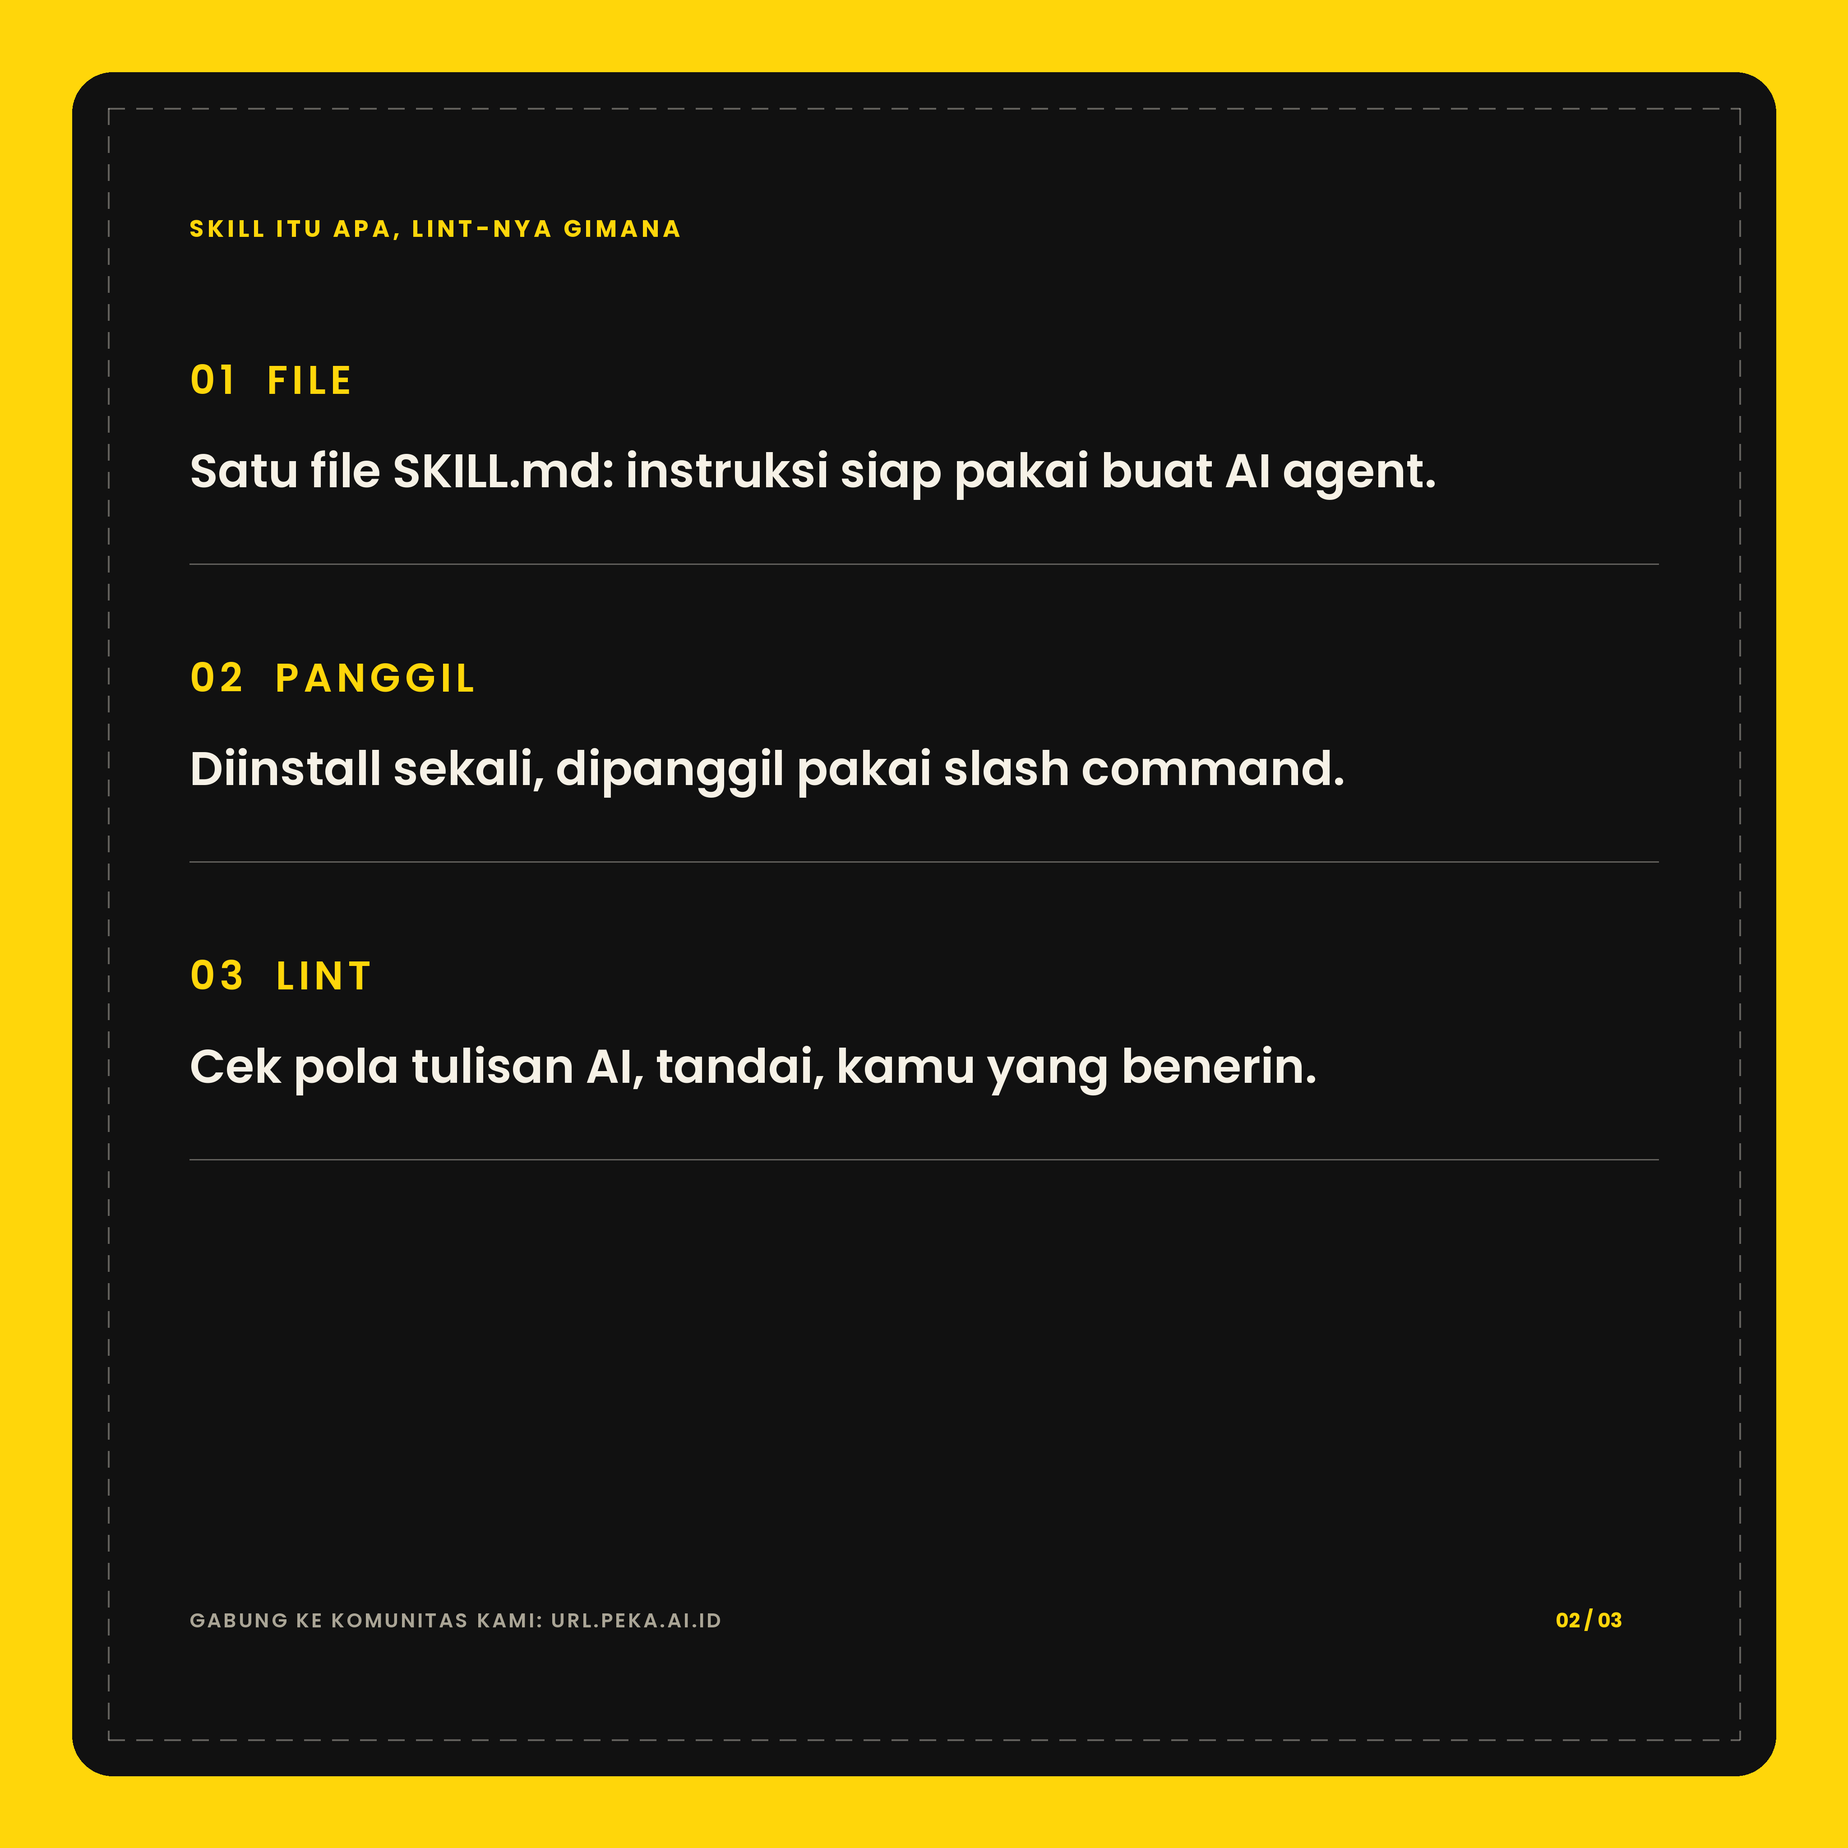
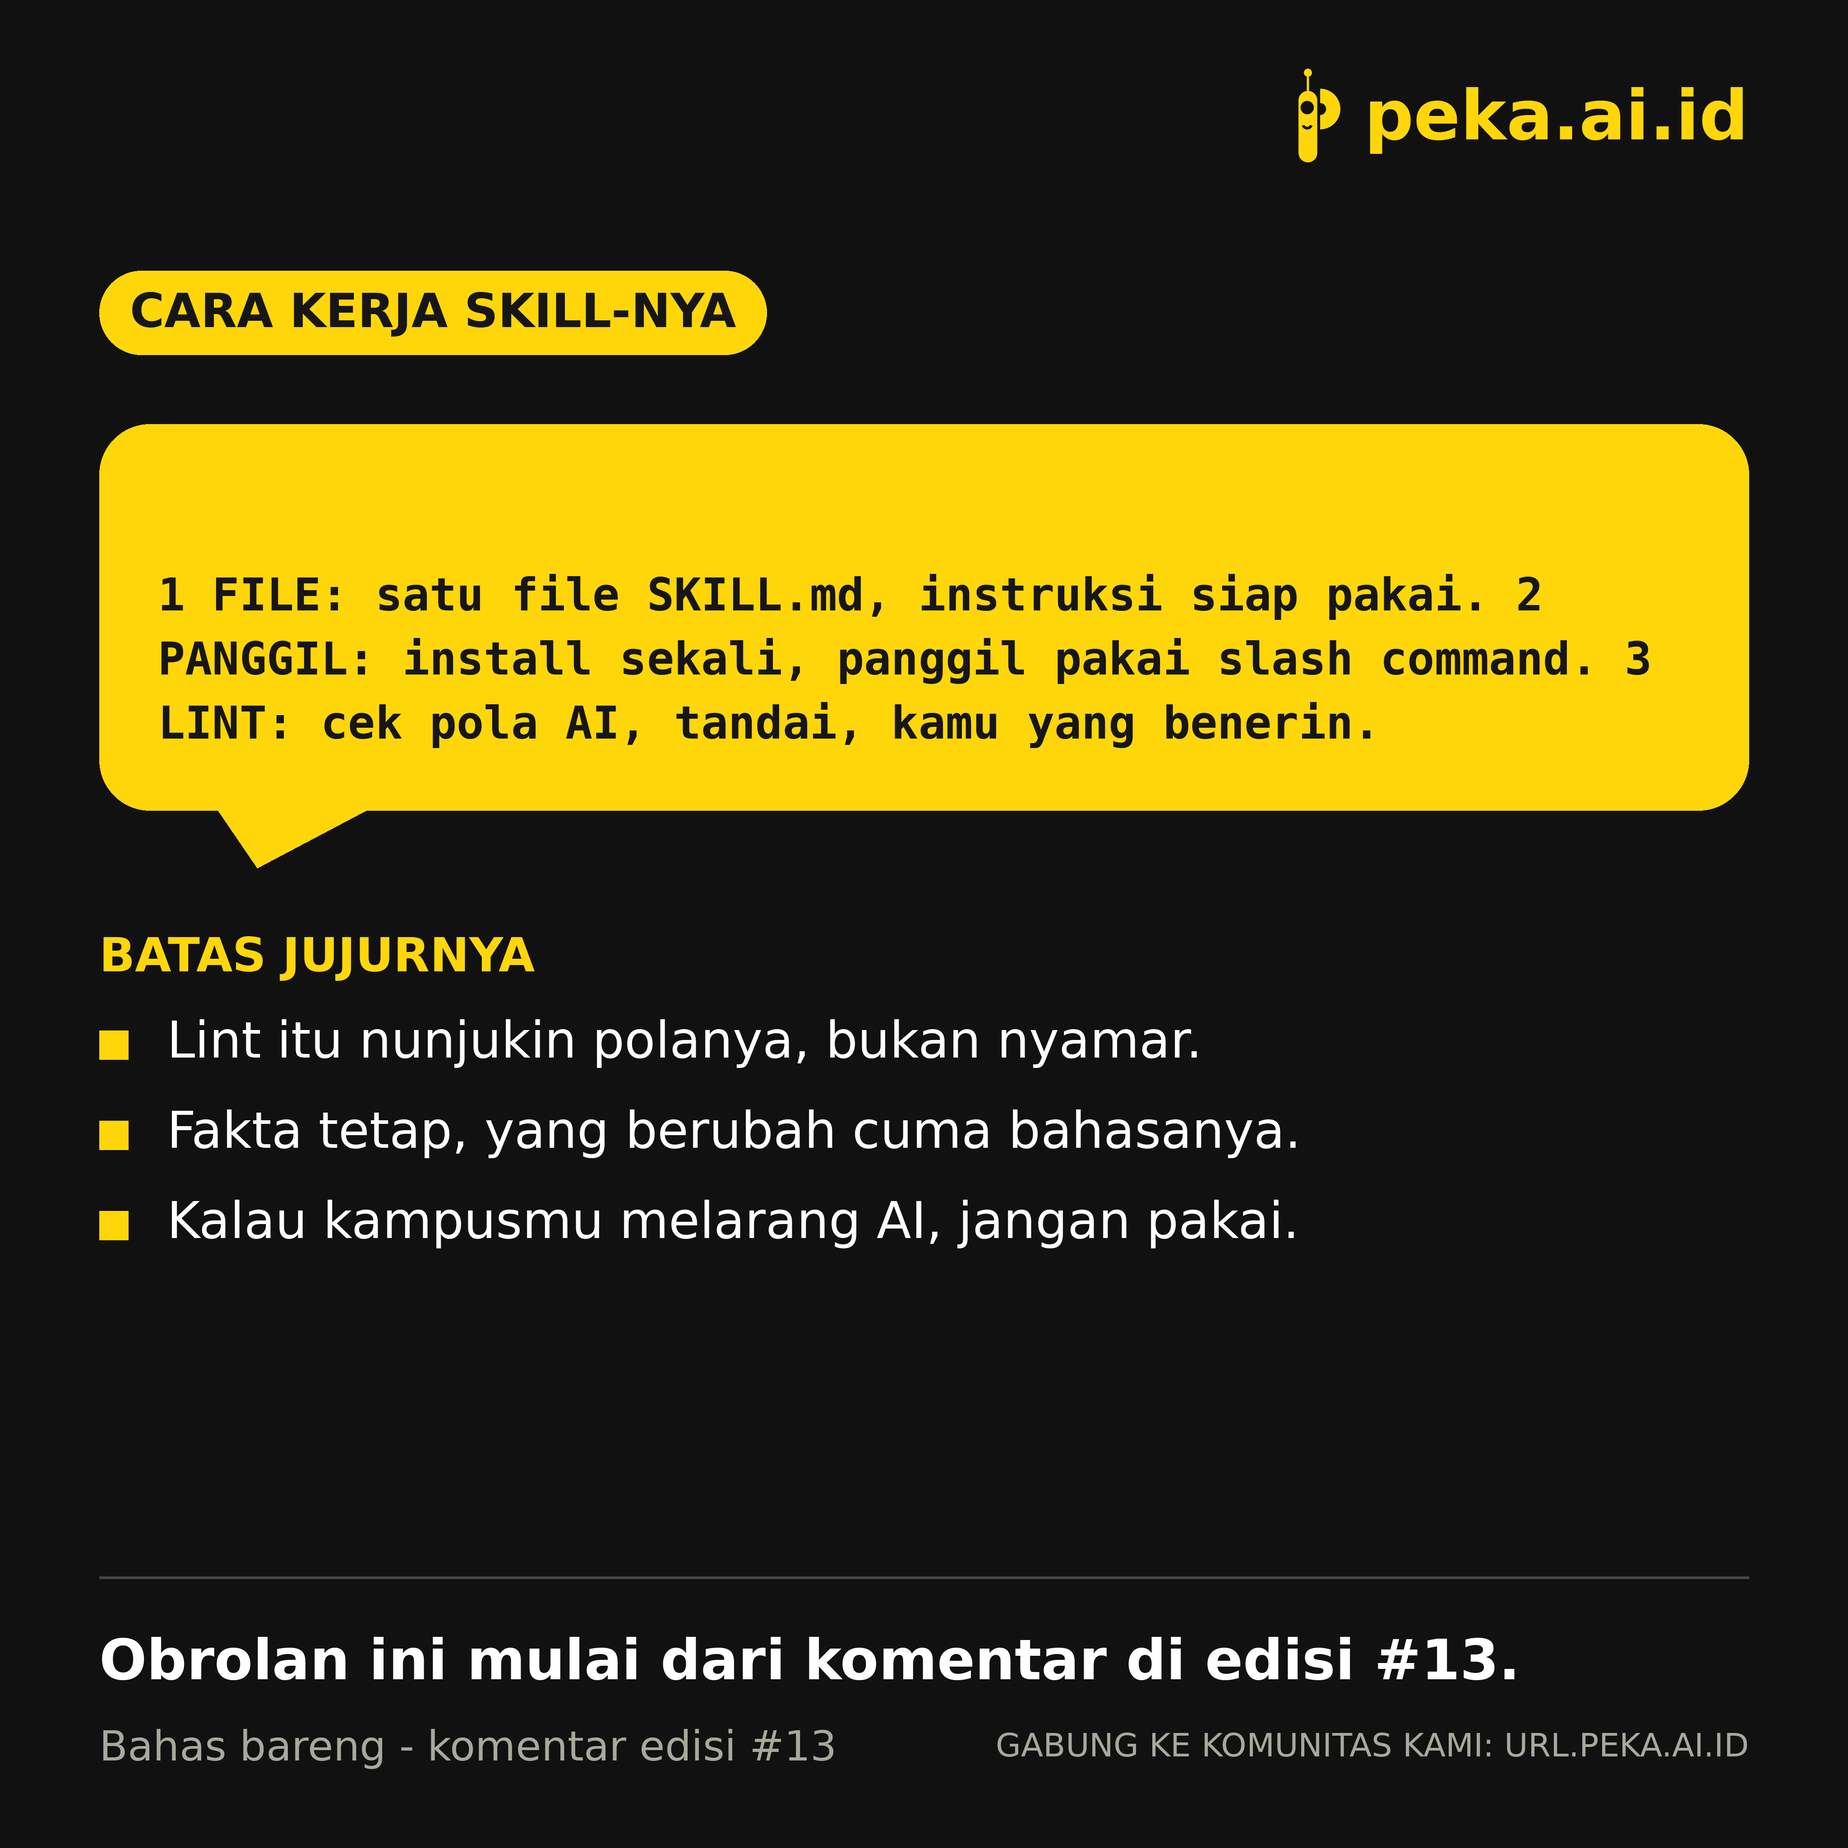
Auto sync 2026-11-04 06:37

diff --git a/bahas/2026-11-04/bahas_slides.py b/bahas/2026-11-04/bahas_slides.py
@@ -1,12 +1,17 @@
+#!/usr/bin/env python3
 """Bahas-bersama carousel: humanizer-lint SKILL discussion from the Prompt #13
-comment thread (@yanstd888 + @meta.ai). Peka black/yellow design language,
-same card/frame/footer helpers as the katalog template. 3 slides 4096x4096.
+comment thread (@yanstd888 + @meta.ai). 2 slides, 4096x4096.
 
-The thread is about a SKILL (an agent skill repo file), not generic writing
-tips: the carousel explains what a skill is, how a lint skill works, and the
-honest-use boundary. No link in any text; the community URL lives only in
-the footer line. Nothing is claimed about the skill being public: the
-comment says it is still being tinkered with.
+Design: the locked Prompt Harian two-tone flip template, reused verbatim
+(helpers copied from prompt/prompt_harian.py): slide 1 = Peka yellow with
+giant black type, locked lockup top-right, chips row, tilted chat-bubble
+teaser, black bottom strip. Slide 2 = black with the mechanics inside a
+yellow chat bubble, honesty-boundary tips, footer trigger. Fonts are
+DejaVu (Bold/regular/mono), mascot is the chroma-keyed mascot-p.png.
+
+Content framing: the thread is about a SKILL (an agent skill repo file),
+not generic writing tips. Nothing is claimed about the skill being public:
+the comment says it is still being tinkered with.
 """
 import os
 
@@ -15,174 +20,216 @@ from PIL import Image, ImageDraw, ImageFont
 HERE = os.path.dirname(os.path.abspath(__file__))
 OUT = HERE
 
-W = H = 4096
+S = 4096
 YELLOW = (255, 214, 10)
 BLACK = (17, 17, 17)
-CREAM = (246, 241, 230)
-MUTED = (170, 165, 150)
-CARD_LINE = (246, 241, 230, 90)
+INK = (22, 22, 22)
+WHITE = (255, 255, 255)
+GRAY = (168, 168, 158)
 
-FONTS = "/home/hatch/workspace/sertiku-poster/fonts"
-FB = f"{FONTS}/Poppins-Bold.ttf"
-FX = f"{FONTS}/Poppins-ExtraBold.ttf"
-FS = f"{FONTS}/Poppins-SemiBold.ttf"
-FM = "/usr/share/fonts/truetype/dejavu/DejaVuSansMono-Bold.ttf"
-
-MASCOT = "/home/hatch/workspace/peka-content/blueprint/animated/assets/mascot-keyed.png"
-M = 420
+FB = "/usr/share/fonts/truetype/dejavu/DejaVuSans-Bold.ttf"
+FR = "/usr/share/fonts/truetype/dejavu/DejaVuSans.ttf"
+FM = "/usr/share/fonts/truetype/dejavu/DejaVuSansMono.ttf"
+FMB = "/usr/share/fonts/truetype/dejavu/DejaVuSansMono-Bold.ttf"
 
 
-def tracked(d, text, font, fill, x, y, ls):
-    cx = x
-    for ch in text:
-        d.text((cx, y), ch, font=font, fill=fill)
-        cx += d.textlength(ch, font=font) + ls
-    return cx
+def f(sz):
+    return ImageFont.truetype(FB, sz)
 
 
-def dashed_rect(d, box, fill, width=4, dash=36, gap=26):
-    x0, y0, x1, y1 = box
-    x = x0
-    while x < x1:
-        d.line([x, y0, min(x + dash, x1), y0], fill=fill, width=width)
-        d.line([x, y1, min(x + dash, x1), y1], fill=fill, width=width)
-        x += dash + gap
-    y = y0
-    while y < y1:
-        d.line([x0, y, x0, min(y + dash, y1)], fill=fill, width=width)
-        d.line([x1, y, x1, min(y + dash, y1)], fill=fill, width=width)
-        y += dash + gap
+def fr(sz):
+    return ImageFont.truetype(FR, sz)
 
 
-def base():
-    img = Image.new("RGB", (W, H), YELLOW)
-    d = ImageDraw.Draw(img, "RGBA")
-    d.rounded_rectangle([160, 160, 3936, 3936], radius=90, fill=BLACK)
-    dashed_rect(d, [240, 240, 3856, 3856], CARD_LINE, width=4)
-    return img, d
+def mono(sz, bold=False):
+    return ImageFont.truetype(FMB if bold else FM, sz)
 
 
-def footer(d, page, total):
-    fy = 3560
-    f_foot = ImageFont.truetype(FS, 44)
-    tracked(d, "GABUNG KE KOMUNITAS KAMI: URL.PEKA.AI.ID", f_foot,
-            MUTED, M, fy, 5)
-    f_pg = ImageFont.truetype(FB, 44)
-    pg = f"{page:02d} / {total:02d}"
-    pw = d.textlength(pg, font=f_pg)
-    d.text((3936 - M + 80 - pw, fy), pg, font=f_pg, fill=YELLOW)
+# --- mascot with chroma-key (same source as spill/spill.py) ---
+_m = Image.open("/home/hatch/workspace/peka-logo/mascot-p.png").convert("RGB")
+_mmask = Image.new("L", _m.size, 0)
+_mp = _m.load()
+_mk = _mmask.load()
+for yy in range(_m.size[1]):
+    for xx in range(_m.size[0]):
+        r, g, b = _mp[xx, yy]
+        if r > 30 or g > 30 or b > 30:
+            _mk[xx, yy] = 255
+_creature = _m.crop(_mmask.getbbox())
+_cmask = _mmask.crop(_mmask.getbbox())
 
 
-def header_row(d, kicker):
-    f_kick = ImageFont.truetype(FB, 52)
-    tracked(d, kicker, f_kick, YELLOW, M, 470, 8)
+def lockup(img, cy, mh, color, chip=None):
+    """Locked Peka lockup: mascot + 'peka.ai.id', right edge at x=3876."""
+    d = ImageDraw.Draw(img)
+    cr = _creature.resize((int(_creature.width * mh / _creature.height), mh), Image.LANCZOS)
+    mr = _cmask.resize(cr.size, Image.LANCZOS)
+    tf = f(int(mh * 0.74))
+    label = "peka.ai.id"
+    ascent, descent = tf.getmetrics()
+    tx = 3876 - d.textlength(label, font=tf)
+    ty = cy - (ascent + descent) // 2
+    mx = int(tx - 52 - cr.width)
+    my = cy - mh // 2
+    if chip is not None:
+        pad = 40
+        d.rounded_rectangle([mx - pad, my - pad, mx + cr.width + pad, my + mh + pad],
+                            radius=68, fill=chip)
+    img.paste(cr, (mx, my), mr)
+    d.text((tx, ty), label, font=tf, fill=color)
 
 
-def wrap_lines(d, text, font, max_w):
-    words = text.split()
-    lines, cur = [], ""
-    for word in words:
-        trial = f"{cur} {word}".strip()
-        if d.textlength(trial, font=font) <= max_w:
-            cur = trial
+def wrap(d, text, font, max_w):
+    words, lines, cur = text.split(), [], ""
+    for w_ in words:
+        t = (cur + " " + w_).strip()
+        if d.textlength(t, font=font) <= max_w:
+            cur = t
         else:
-            lines.append(cur)
-            cur = word
+            if cur:
+                lines.append(cur)
+            cur = w_
     if cur:
         lines.append(cur)
     return lines
 
 
-# ---------------- slide 1: cover ----------------
-img, d = base()
-header_row(d, "BAHAS BARENG // KOMENTAR EDISI #13")
+def pill(d, x, y, text, font, fill=None, txt=None, outline=None, pad_x=68, pad_y=32):
+    tw = d.textlength(text, font=font)
+    ascent, descent = font.getmetrics()
+    th = ascent + descent
+    box = [x, y, x + tw + pad_x * 2, y + th + pad_y * 2]
+    d.rounded_rectangle(box, radius=(box[3] - box[1]) // 2, fill=fill, outline=outline, width=10 if outline else 2)
+    d.text((x + pad_x, y + pad_y - 4), text, font=font, fill=txt)
+    return box[2]
 
-mascot = Image.open(MASCOT)
-mw, mh = mascot.size
-mh2 = 1260
-mascot = mascot.resize((int(mh2 * mw / mh), mh2), Image.LANCZOS)
-img.paste(mascot, (W - M - mascot.width - 60, 600), mascot)
 
-f_h = ImageFont.truetype(FX, 300)
-d.text((M - 8, 760), "SKILL", font=f_h, fill=CREAM)
-d.text((M - 8, 1080), "HUMANIZER", font=f_h, fill=CREAM)
-t2 = "LINT."
-hl_w = d.textlength(t2, font=f_h)
-d.rounded_rectangle([M - 8 - 24, 1440 - 40,
-                     M - 8 + hl_w + 24, 1440 + 372],
-                    radius=36, fill=YELLOW)
-d.text((M - 8, 1440), t2, font=f_h, fill=BLACK)
+def giant_size(d, text, start=600, max_w=3656):
+    size = start
+    while size > 200:
+        if d.textlength(text, font=f(size)) <= max_w:
+            return size
+        size -= 20
+    raise SystemExit(f"OVERFLOW: giant word {text!r} does not fit")
 
-f_sub = ImageFont.truetype(FS, 84)
-d.text((M, 1960), "Skill yang nge-lint tulisan AI", font=f_sub, fill=CREAM)
-d.text((M, 2075), "biar gak kaku.", font=f_sub, fill=CREAM)
-d.text((M, 2260), "Lagi diulik @meta.ai.", font=f_sub, fill=MUTED)
 
-f_geser = ImageFont.truetype(FM, 62)
-tracked(d, "GESER BUAT LIHAT CARA KERJANYA  >>", f_geser, YELLOW, M, 3040, 4)
+def slide1():
+    img = Image.new("RGB", (S, S), YELLOW)
+    d = ImageDraw.Draw(img)
+    lockup(img, cy=256, mh=208, color=INK, chip=BLACK)
 
-footer(d, 1, 3)
-img.save(f"{OUT}/bahas-01.png")
-print("saved slide 1")
+    # chips row
+    x = pill(d, 220, 600, "BAHAS BARENG", f(104), fill=BLACK, txt=YELLOW)
+    pill(d, x + 52, 600, "KOMENTAR #13", f(104), fill=None, txt=INK, outline=INK)
 
-# ---------------- slide 2: what a skill is + how lint works ----------------
-img, d = base()
-header_row(d, "SKILL ITU APA, LINT-NYA GIMANA")
+    # giant type (auto-fit so HUMANIZER fits the template width)
+    g1 = giant_size(d, "HUMANIZER")
+    d.text((208, 940), "HUMANIZER", font=f(g1), fill=INK)
+    d.text((208, 1600), "LINT.", font=f(660), fill=INK)
 
-blocks = [
-    ("01  FILE",
-     "Satu file SKILL.md: instruksi siap pakai buat AI agent."),
-    ("02  PANGGIL",
-     "Diinstall sekali, dipanggil pakai slash command."),
-    ("03  LINT",
-     "Cek pola tulisan AI, tandai, kamu yang benerin."),
-]
-f_sec = ImageFont.truetype(FS, 88)
-f_item = ImageFont.truetype(FS, 104)
-y = 780
-max_w = W - 2 * M
-for sec_name, body in blocks:
-    tracked(d, sec_name, f_sec, YELLOW, M, y, 10)
-    y += 190
-    for line in wrap_lines(d, body, f_item, max_w):
-        d.text((M, y), line, font=f_item, fill=CREAM)
-        y += 150
-    y += 130
-    d.line([M, y, W - M, y], fill=CARD_LINE, width=3)
-    y += 190
+    # use-case headline
+    hl = wrap(d, "Skill yang nge-lint tulisan AI biar gak kaku. Lagi diulik @meta.ai.",
+              f(176), 3660)
+    if len(hl) > 2:
+        raise SystemExit("OVERFLOW: headline wraps to >2 lines at 176px")
+    y = 2420
+    for ln in hl:
+        d.text((220, y), ln, font=f(176), fill=INK)
+        y += 224
 
-footer(d, 2, 3)
-img.save(f"{OUT}/bahas-02.png")
-print("saved slide 2")
+    # tilted chat bubble teaser (drawn on its own layer, rotated -2 deg)
+    bw, bh = 3120, 660
+    layer = Image.new("RGBA", (bw + 160, bh + 160), (0, 0, 0, 0))
+    ld = ImageDraw.Draw(layer)
+    ld.rounded_rectangle([80, 80, 80 + bw, 80 + bh], radius=108, fill=WHITE)
+    ld.polygon([(360, 80 + bh - 4), (660, 80 + bh - 4), (430, 80 + bh + 124)], fill=WHITE)
+    tag = "SKILL ITU APA?"
+    tag_w = ld.textlength(tag, font=f(80)) + 152
+    ld.rounded_rectangle([80, 80, 80 + tag_w, 236], radius=48, fill=BLACK)
+    ld.text((156, 116), tag, font=f(80), fill=YELLOW)
+    teaser = ("Satu file SKILL.md berisi pola tulisan AI. Diinstall sekali, "
+              "dipanggil pakai slash command.")
+    if len(teaser) > 118:
+        teaser = teaser[:118].rsplit(" ", 1)[0] + "..."
+    tl = wrap(ld, teaser, mono(94), bw - 220)
+    ty = 300
+    for ln in tl[:3]:
+        ld.text((190, ty), ln, font=mono(94), fill=INK)
+        ty += 128
+    layer = layer.rotate(2, resample=Image.BICUBIC, expand=True)
+    img.paste(layer, (300, 2870), layer)
 
-# ---------------- slide 3: honest boundary ----------------
-img, d = base()
-header_row(d, "BATAS JUJURNYA")
+    # bottom strip
+    d.rectangle([0, S - 336, S, S], fill=BLACK)
+    d.text((220, S - 244), "GESER BUAT CARA KERJANYA →", font=f(116), fill=YELLOW)
+    tail = "GABUNG KE KOMUNITAS KAMI: URL.PEKA.AI.ID"
+    d.text((3876 - d.textlength(tail, font=fr(68)), S - 220), tail, font=fr(68), fill=YELLOW)
+    return img
 
-f_big = ImageFont.truetype(FX, 210)
-d.text((M - 8, 800), "Lint itu nunjukin,", font=f_big, fill=CREAM)
-d.text((M - 8, 1040), "bukan nyamar.", font=f_big, fill=CREAM)
 
-f_body = ImageFont.truetype(FS, 92)
-body = ("Fakta tetap, yang berubah cuma bahasanya. "
-        "Bukan tombol lolos detektor.")
-y = 1520
-for line in wrap_lines(d, body, f_body, max_w):
-    d.text((M, y), line, font=f_body, fill=CREAM)
-    y += 140
-y += 60
-warn = "Kalau kampusmu melarang AI, jangan pakai."
-for line in wrap_lines(d, warn, f_body, max_w):
-    d.text((M, y), line, font=f_body, fill=MUTED)
-    y += 140
+def slide2():
+    img = Image.new("RGB", (S, S), BLACK)
+    d = ImageDraw.Draw(img)
+    lockup(img, cy=256, mh=208, color=YELLOW)
 
-band_y = 2620
-d.rounded_rectangle([M, band_y, W - M, band_y + 200], radius=36, fill=YELLOW)
-f_cta = ImageFont.truetype(FB, 72)
-cta = "FOLLOW DAN GABUNG, KALAU KAMU SUKA."
-cw = d.textlength(cta, font=f_cta)
-d.text(((W - cw) / 2, band_y + 62), cta, font=f_cta, fill=BLACK)
+    pill(d, 220, 600, "CARA KERJA SKILL-NYA", f(104), fill=YELLOW, txt=INK)
 
-footer(d, 3, 3)
-img.save(f"{OUT}/bahas-03.png")
-print("saved slide 3")
+    # mechanics bubble, auto-fit font
+    mechanics = ("1 FILE: satu file SKILL.md, instruksi siap pakai. "
+                 "2 PANGGIL: install sekali, panggil pakai slash command. "
+                 "3 LINT: cek pola AI, tandai, kamu yang benerin.")
+    box_x, box_w = 220, 3656
+    size = 100
+    while size > 68:
+        pf = mono(size, bold=True)
+        lines = wrap(d, mechanics, pf, box_w - 260)
+        need = len(lines) * int(size * 1.42) + 430
+        if need <= 1840:
+            break
+        size -= 6
+    else:
+        raise SystemExit("OVERFLOW: mechanics too long for the bubble")
+    box_y = 940
+    box_h = need
+    d.rounded_rectangle([box_x, box_y, box_x + box_w, box_y + box_h], radius=112, fill=YELLOW)
+    d.polygon([(box_x + 260, box_y + box_h - 4), (box_x + 600, box_y + box_h - 4),
+               (box_x + 350, box_y + box_h + 128)], fill=YELLOW)
+    ty = box_y + 320
+    for ln in lines:
+        d.text((box_x + 130, ty), ln, font=pf, fill=INK)
+        ty += int(size * 1.42)
+
+    # honesty boundary tips
+    y = box_y + box_h + 260
+    d.text((220, y), "BATAS JUJURNYA", font=f(104), fill=YELLOW)
+    y += 184
+    for tip in ["Lint itu nunjukin polanya, bukan nyamar.",
+                "Fakta tetap, yang berubah cuma bahasanya.",
+                "Kalau kampusmu melarang AI, jangan pakai."]:
+        tl = wrap(d, tip, fr(112), 3380)
+        d.rectangle([220, y + 44, 284, y + 108], fill=YELLOW)
+        for ln in tl:
+            d.text((370, y), ln, font=fr(112), fill=WHITE)
+            y += 148
+        y += 52
+
+    # footer trigger
+    d.line([220, S - 600, 3876, S - 600], fill=(70, 70, 70), width=6)
+    d.text((220, S - 490), "Obrolan ini mulai dari komentar di edisi #13.",
+           font=f(124), fill=WHITE)
+    foot = "Bahas bareng - komentar edisi #13"
+    d.text((220, S - 280), foot, font=fr(92), fill=GRAY)
+    join = "GABUNG KE KOMUNITAS KAMI: URL.PEKA.AI.ID"
+    d.text((3876 - d.textlength(join, font=fr(72)), S - 270), join, font=fr(72), fill=GRAY)
+    return img
+
+
+def main():
+    os.makedirs(OUT, exist_ok=True)
+    slide1().save(f"{OUT}/bahas-01.png")
+    slide2().save(f"{OUT}/bahas-02.png")
+    print("OK", OUT)
+
+
+if __name__ == "__main__":
+    main()
